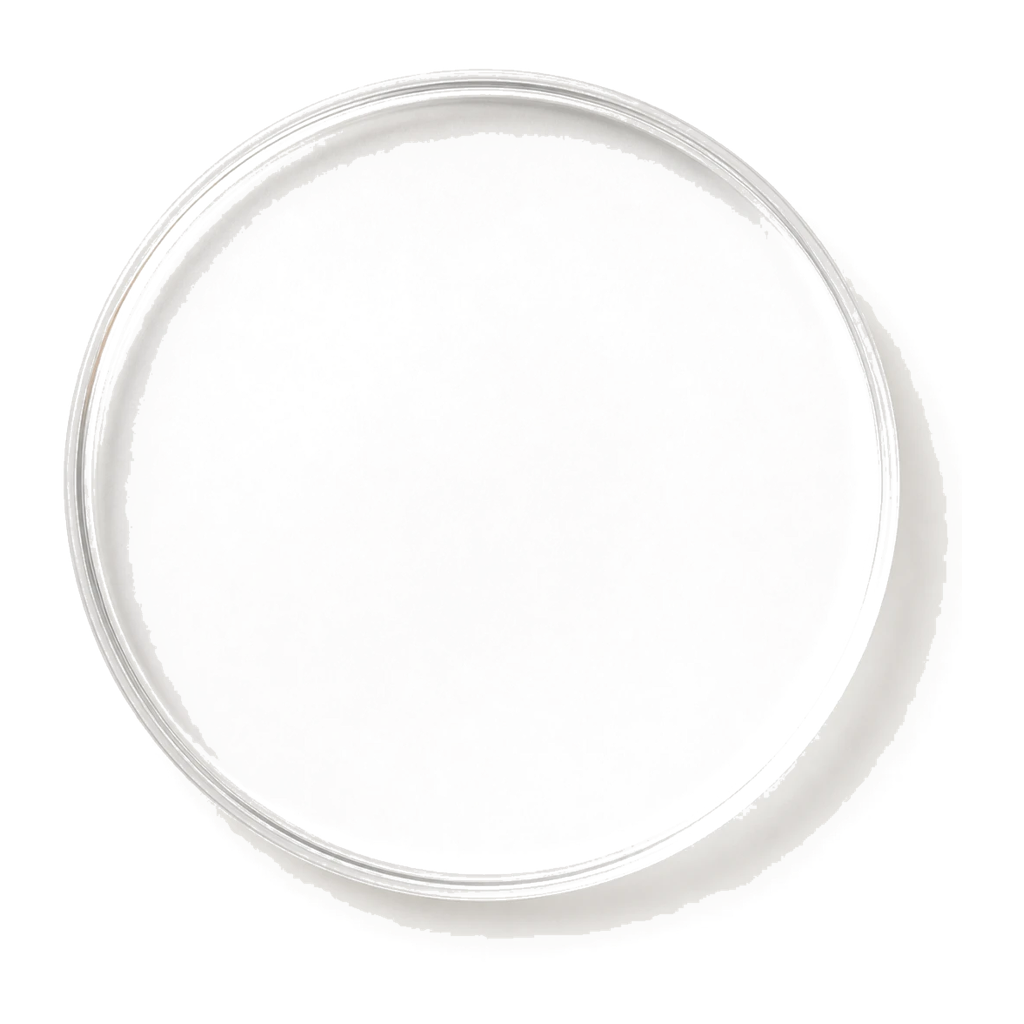
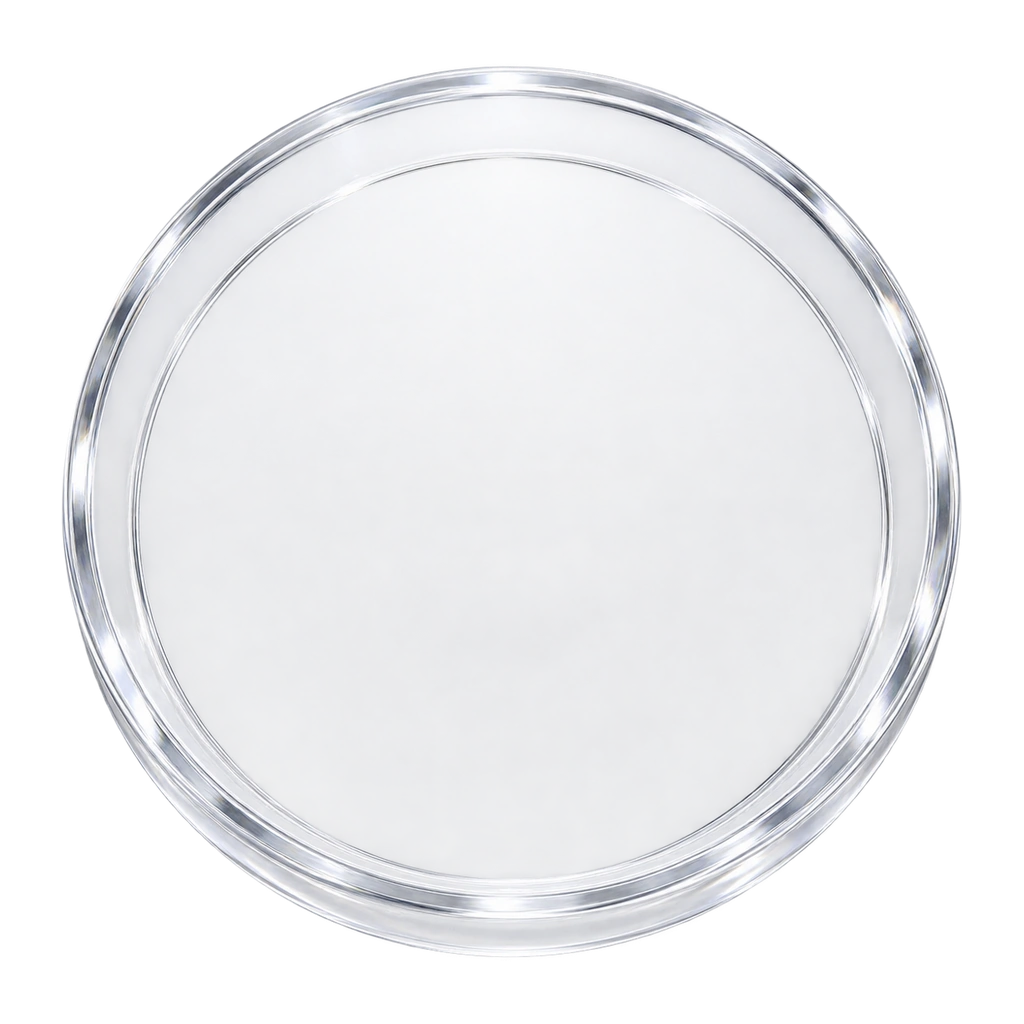
feat(assets): replace diy trays with clean native-alpha sources

Changed region(s): [[0.0625, 0.0625, 0.9375, 0.9375]]

diff --git a/scripts/ui-qa/tray_postprocess.py b/scripts/ui-qa/tray_postprocess.py
@@ -1,0 +1,111 @@
+"""Normalize native-alpha tray renders into deterministic runtime WebPs."""
+
+from __future__ import annotations
+
+import argparse
+import io
+import math
+from pathlib import Path
+
+from PIL import Image
+
+FRAME = 1024
+TARGET_DIAMETER = 901
+MAX_BYTES = 900 * 1024
+QUALITY_CANDIDATES = (95, 92, 90, 88, 85, 82, 80)
+
+
+def _neutralize_edge_fringe(image: Image.Image, center: tuple[float, float], radius: float, neutral: bool) -> None:
+    pixels = image.load()
+    cx, cy = center
+    inner = radius * 0.84
+    for y in range(image.height):
+        for x in range(image.width):
+            r, g, b, a = pixels[x, y]
+            if a == 0:
+                continue
+            distance = math.hypot(x - cx, y - cy)
+            if not neutral and distance < inner:
+                continue
+            green_bias = g - max(r, b)
+            magenta_bias = min(r, b) - g
+            red_bias = r - max(g, b)
+            blue_bias = b - max(r, g)
+            if neutral:
+                contaminated = max(r, g, b) - min(r, g, b) > 38
+            else:
+                contaminated = green_bias > 18 or magenta_bias > 42 or red_bias > 58 or blue_bias > 58
+            if contaminated:
+                luminance = round(0.2126 * r + 0.7152 * g + 0.0722 * b)
+                pixels[x, y] = (luminance, luminance, luminance, a)
+
+
+def _apply_radial_clip(image: Image.Image, center: tuple[float, float], radius: float) -> None:
+    pixels = image.load()
+    cx, cy = center
+    feather = 2.5
+    for y in range(image.height):
+        for x in range(image.width):
+            r, g, b, a = pixels[x, y]
+            distance = math.hypot(x - cx, y - cy)
+            if distance >= radius:
+                pixels[x, y] = (r, g, b, 0)
+            elif distance > radius - feather:
+                scale = (radius - distance) / feather
+                pixels[x, y] = (r, g, b, round(a * max(0.0, min(1.0, scale))))
+
+
+def _encode_webp(image: Image.Image) -> tuple[bytes, int]:
+    for quality in QUALITY_CANDIDATES:
+        output = io.BytesIO()
+        image.save(output, "WEBP", quality=quality, method=6, exact=True)
+        payload = output.getvalue()
+        if len(payload) <= MAX_BYTES:
+            return payload, quality
+    raise SystemExit(f"encoded tray exceeds {MAX_BYTES} bytes at quality {QUALITY_CANDIDATES[-1]}")
+
+
+def process(source: Path, target: Path, source_radius: float, neutral: bool = False) -> None:
+    if source.resolve() == target.resolve():
+        raise SystemExit("source and target must differ")
+    image = Image.open(source).convert("RGBA")
+    center = (image.width / 2.0, image.height / 2.0)
+    if source_radius <= 0 or source_radius > min(image.size) / 2:
+        raise SystemExit(f"invalid --source-radius {source_radius} for {image.size}")
+
+    _neutralize_edge_fringe(image, center, source_radius, neutral)
+    _apply_radial_clip(image, center, source_radius)
+
+    cx, cy = center
+    crop = image.crop(
+        (
+            round(cx - source_radius),
+            round(cy - source_radius),
+            round(cx + source_radius),
+            round(cy + source_radius),
+        )
+    )
+    crop = crop.resize((TARGET_DIAMETER, TARGET_DIAMETER), Image.Resampling.LANCZOS)
+    canvas = Image.new("RGBA", (FRAME, FRAME), (0, 0, 0, 0))
+    offset = (FRAME - TARGET_DIAMETER) // 2
+    canvas.paste(crop, (offset, offset))
+
+    payload, quality = _encode_webp(canvas)
+    target.parent.mkdir(parents=True, exist_ok=True)
+    target.write_bytes(payload)
+    print(f"wrote {target} bytes={len(payload)} quality={quality} source_radius={source_radius:g} neutral={neutral}")
+
+
+def main() -> int:
+    parser = argparse.ArgumentParser(description=__doc__)
+    parser.add_argument("source", type=Path)
+    parser.add_argument("target", type=Path)
+    parser.add_argument("--source-radius", type=float, required=True)
+    parser.add_argument("--neutral", action="store_true", help="neutralize chroma across a colorless acrylic subject")
+    args = parser.parse_args()
+    process(args.source, args.target, args.source_radius, args.neutral)
+    return 0
+
+
+if __name__ == "__main__":
+    raise SystemExit(main())

diff --git a/scripts/ui-qa/verify_diy_assets.py b/scripts/ui-qa/verify_diy_assets.py
@@ -3,6 +3,7 @@
 from __future__ import annotations
 
 import argparse
+import math
 import sys
 from dataclasses import dataclass
 from pathlib import Path
@@ -49,6 +50,8 @@ TRAY_CENTER_TOLERANCE = 16
 # Expected outer subject diameter ≈ 0.88 * 1024 = 901 (rimRadiusRatio 0.44)
 TRAY_LONGEST_MIN = 880
 TRAY_LONGEST_MAX = 910
+TRAY_REMAINDER_RADIUS_RATIO = 0.447
+TRAY_REMAINDER_MAX_COUNT = 64
 BEAD_SIZE = 512
 BEAD_CENTER_TOLERANCE = 4
 BEAD_LONGEST_MIN = 430
@@ -113,6 +116,20 @@ def _check_tray_artifacts(image: Image.Image) -> list[str]:
     outer_r = min(w, h) * ISLAND_RADIUS_RATIO
     ring_in = min(w, h) * EDGE_RING_INNER
     ring_out = min(w, h) * EDGE_RING_OUTER
+
+    # A valid 901px circular tray cannot have substantial alpha beyond this
+    # radius. This catches connected right/bottom background bands that evade
+    # isolated-island and alpha-bbox checks.
+    remainder_radius = min(w, h) * TRAY_REMAINDER_RADIUS_RATIO
+    remainder_hits = 0
+    for y in range(h):
+        for x in range(w):
+            if pix[x, y][3] >= 8 and math.hypot(x - cx, y - cy) > remainder_radius:
+                remainder_hits += 1
+    if remainder_hits > TRAY_REMAINDER_MAX_COUNT:
+        issues.append(
+            f"outside_disc_alpha={remainder_hits} expected <= {TRAY_REMAINDER_MAX_COUNT}"
+        )
 
     # Discrete alpha islands outside the main subject disc
     island_candidates = 0

diff --git a/docs/tasks/TASK_REGISTRY.md b/docs/tasks/TASK_REGISTRY.md
@@ -36,7 +36,7 @@ Codex independently accepted the closure evidence on 2026-09-10: GitHub PR metad
 | TASK-AUTH-009 | Mimo-X-Pro repair after GLM-5.3 implementation, under Codex lead/review | `task/auth-009-desktop-auto-auth-login-prompt` | DONE — Codex independently accepted TASK-AUTH-009 on 2026-09-12. Implementation commits: `a4c95d1`, `8ee562b`, `1a18deb`, `de4f5a1`, `97179b9`, `76c0420`, review repair `5e12f04`, and Mimo-X-Pro final repair `85a0b61`. The desktop identity remains exact-development, signed-test, loopback-only and server-only; Auth0 remains the consumer production session. The login/register dialog now restores focus for button/Escape/mask dismissal, dismisses without a business retry, and remounts after a later user-triggered 401. Standard frontend tests discover and pass 1005/1005; typecheck, lint, production build, external launcher syntax/plist/self-check, desktop session/API/logout/origin/token-leak checks, `git diff --check`, and 390x844 browser validation pass. Architecture remains 14/15 and `pnpm validate` 71/72 only because of the pre-existing missing Backend module-directory baseline outside this task; it is not reported as green. No push or deployment. | `apps/frontend/src/features/auth/**`, `apps/frontend/app/auth/**`, `apps/frontend/app/api/[...path]/route.ts`, `apps/frontend/proxy.ts`, `apps/frontend/src/components/flow-notice.tsx`, `apps/frontend/src/lib/api/frontend-api-error.ts`, `apps/frontend/src/features/tarot/components/tarot-setup.tsx`, `apps/frontend/src/features/tarot/tarot-setup.test.tsx`, `apps/frontend/src/features/design/frontend-ai-flow.test.tsx`, `apps/frontend/src/features/questionnaire/components/questionnaire-wizard.tsx`, `apps/frontend/src/features/gallery/components/gallery-page.tsx`, `apps/frontend/src/features/profile/components/profile-page.tsx`, `apps/frontend/src/features/library/components/crystal-library-page.tsx`, `apps/frontend/src/features/library/components/crystal-library-page.test.tsx`, `apps/frontend/src/features/design/components/design-results.tsx`, `apps/frontend/src/features/design/components/diy-editor.tsx`, delete `apps/frontend/src/components/flow-notice.test.tsx` (migrated into auth feature tests), `docs/AUTH_SESSION_CONTRACT.md`, `docs/SECURITY_AND_PRIVACY.md`, `docs/LOCAL_DEMO_GUIDE.md`, `docs/INDEX.md`, exact FEAT-018 row in `docs/governance/FEATURE_REGISTRY.md`, `docs/superpowers/specs/2026-09-12-auth-login-prompt-desktop-auto-auth.md`, `docs/superpowers/plans/2026-09-12-auth-login-prompt-desktop-auto-auth.md`, only this TASK-AUTH-009 row/acceptance note; external local-operation files `/Users/chenyanyan/Desktop/玄矶系统.command` and `/Users/chenyanyan/Library/LaunchAgents/com.mystcrag.frontend.plist` | `apps/backend/**`, `packages/**`, Prisma/database/data/migrations, Design Contract, independent bead-import admin authentication, other product UI/business behavior, package manifests/lockfile, CI configuration, other task rows, source assets, generated output, push/deploy/main merge before Codex acceptance |
 | TASK-UX-001 | SOL | `task/ux-001-diy-loose-bead-spec` | DONE — Product Owner approved the written specification on 2026-09-12. It records the loose-tray direction, dual-source flight/collision behavior, canonical connected mode, read-only one-decimal component-derived fit, tray/bead asset correction, performance budgets, compatibility/fallback matrix and separately owned delivery tasks. No runtime, asset, contract or engine file changed. All six controlling document paths and the final diff check pass; architecture is 14/15 and `pnpm validate` is 71/72 only because current `main` already lacks `apps/backend/src/modules/community`, outside this task. | new `docs/superpowers/specs/2026-09-12-diy-loose-bead-physics-visual-redesign.md`; only this TASK-UX-001 row and acceptance note in `docs/tasks/TASK_REGISTRY.md` | `apps/**`, `packages/**`, `tests/**`, `apps/frontend/public/**`, Prisma/database/data/migrations, Design Contract, Bracelet Engine implementation/geometry, package manifests/lockfile, root/runtime/CI configuration, Auth, other task rows, generated images/output, source photographs, push/deploy/main merge |
 | TASK-UX-PLAN-001 | SOL | `task/ux-plan-001-diy-loose-bead-implementation` | REVIEW — three no-runtime implementation plans (928 lines) split the approved design into `TASK-ASSET-003`, `TASK-FE-003` and `TASK-UX-AUDIT-001` followed by evidence-defined route-family polish batches. Plans provide exact ownership, files, public interfaces, TDD red/green steps, performance budgets, 48-body deterministic fallback, reduced-motion/API degradation, Chromium/Firefox/WebKit coverage, commits and handoff gates. Placeholder scan, referenced existing paths and final diff check pass. Architecture is 14/15 and `pnpm validate` is 71/72 only because current `main` already lacks `apps/backend/src/modules/community`; no runtime, asset, contract or engine file changed. | new `docs/superpowers/plans/2026-09-12-bead-tray-asset-realism.md`, new `docs/superpowers/plans/2026-09-12-diy-loose-bead-workbench.md`, new `docs/superpowers/plans/2026-09-12-route-visual-audit-and-polish.md`; only this TASK-UX-PLAN-001 row and acceptance note in `docs/tasks/TASK_REGISTRY.md` | `apps/**`, `packages/**`, `tests/**`, `apps/frontend/public/**`, Prisma/database/data/migrations, Design Contract, Bracelet Engine implementation/geometry, package manifests/lockfile, root/runtime/CI configuration, Auth, other task rows, generated images/output, source photographs, push/deploy/main merge |
-| TASK-ASSET-003 | ASSET / Codex under Product Owner authorization on 2026-09-13 | `task/asset-003-bead-tray-realism` | IN_PROGRESS — Product Owner authorized Codex to take over the four tray assets after visual review rejected both MiMo candidates `11593b4` and `d373d9c`. The second candidate still has large right/bottom rectangular background bands; acrylic remains blocky with red residue and false transparency, while the verifier incorrectly reports green. Codex will replace only the four tray WebPs with native-alpha sources generated through the approved built-in imagegen workflow, correct provenance, and strengthen the gate against connected rectangular remnants. Accepted bead normalization and TypeScript metadata remain frozen. No push/deploy/merge. | `apps/frontend/public/trays/ASSET_PROVENANCE.md`, `apps/frontend/public/trays/{bone-china,clear-acrylic,french-linen,oak-wood}.webp`, only verifier-failing `apps/frontend/public/beads/photographic/*.webp`, `scripts/ui-qa/bead_postprocess.py`, new `scripts/ui-qa/verify_diy_assets.py`, `apps/frontend/src/features/design/model/visual-assets.ts`, `apps/frontend/src/features/design/model/visual-assets.test.tsx`, only this TASK-ASSET-003 row/acceptance note | application components, Backend, Database/Prisma/data/migrations, Auth, Design Contract, Bracelet Engine, packages other than the named frontend model files, manifests/lockfile, CI/runtime configuration, source photographs, generated QA output, other task rows, push/deploy/main merge |
+| TASK-ASSET-003 | ASSET / Codex under Product Owner authorization on 2026-09-13 | `task/asset-003-bead-tray-realism` | IN_PROGRESS — Product Owner authorized Codex to take over the four tray assets after visual review rejected both MiMo candidates `11593b4` and `d373d9c`. The second candidate still has large right/bottom rectangular background bands; acrylic remains blocky with red residue and false transparency, while the verifier incorrectly reports green. Codex will replace only the four tray WebPs with native-alpha sources generated through the approved built-in imagegen workflow, add a deterministic tray postprocessor, correct provenance, and strengthen the gate against connected rectangular remnants. Accepted bead normalization and TypeScript metadata remain frozen. No push/deploy/merge. | `apps/frontend/public/trays/ASSET_PROVENANCE.md`, `apps/frontend/public/trays/{bone-china,clear-acrylic,french-linen,oak-wood}.webp`, only verifier-failing `apps/frontend/public/beads/photographic/*.webp`, `scripts/ui-qa/bead_postprocess.py`, new `scripts/ui-qa/tray_postprocess.py`, new `scripts/ui-qa/verify_diy_assets.py`, `apps/frontend/src/features/design/model/visual-assets.ts`, `apps/frontend/src/features/design/model/visual-assets.test.tsx`, only this TASK-ASSET-003 row/acceptance note | application components, Backend, Database/Prisma/data/migrations, Auth, Design Contract, Bracelet Engine, packages other than the named frontend model files, manifests/lockfile, CI/runtime configuration, source photographs, generated QA output, other task rows, push/deploy/main merge |
 
 ### Backend production bundle self-sufficiency (TASK-BE-SMOKE-001)
 

diff --git a/apps/frontend/public/trays/ASSET_PROVENANCE.md b/apps/frontend/public/trays/ASSET_PROVENANCE.md
@@ -1,79 +1,63 @@
 # DIY Tray Asset Provenance
 
-Owner: TASK-ASSET-003 (ASSET / Xiaomi MiMo under Codex lead and review)
-Date: 2026-09-13 (review remediation)
-License: Runtime assets derived only from repository baseline tray files already tracked at plan commit `a306042`. No competitor media. No third-party stock. No generative-image source.
+Owner: TASK-ASSET-003 (ASSET / Codex, authorized by the Product Owner)
+Date: 2026-09-13
+License: Generated for this repository from text prompts with the built-in OpenAI image generator. No competitor image, stock image, user image, or other third-party visual was used as an input.
 
-## Authoritative input
+## Source generation
 
-The four source files are the pre-existing repository runtime trays at plan base `a306042`:
+All four sources were generated independently at 1254×1254 RGBA. Shared prompt constraints required a single centered, top-down circular bracelet-making tray; no beads, jewelry, text, logo, watermark, hands, props, or background scene; even soft lighting; realistic material; generous inner working area; and a fully visible outer rim.
 
-| Source (git `a306042`) | Original size | Mode |
-| --- | --- | --- |
-| `apps/frontend/public/trays/bone-china.webp` | 1100×1100 | RGB |
-| `apps/frontend/public/trays/clear-acrylic.webp` | 1100×1100 | RGB |
-| `apps/frontend/public/trays/french-linen.webp` | 1100×1100 | RGB |
-| `apps/frontend/public/trays/oak-wood.webp` | 1100×1100 | RGB |
+Material additions were:
 
-Extract command:
+- `bone-china.webp`: warm ivory bone china, restrained glossy glaze and a thin rounded rim.
+- `clear-acrylic.webp`: genuinely transparent clear acrylic, continuous translucent floor, subtle molded rim and restrained refraction.
+- `french-linen.webp`: warm natural French linen over a padded circular base, fine woven texture and softly raised rim.
+- `oak-wood.webp`: pale natural oak, fine radial grain, shallow carved recess and smooth rounded rim.
+
+| Runtime file | Generated source ID | Source SHA-256 | Circular source radius |
+| --- | --- | --- | --- |
[4 lines of base64/hex data omitted]
+
+The generated source files are retained by the built-in generator under `/Users/chenyanyan/.codex/generated_images/01a03351-e223-7433-a2ed-b681a541a365/` for local audit. Runtime reproduction does not depend on those files being shipped with the application.
+
+## Deterministic post-processing
+
+`scripts/ui-qa/tray_postprocess.py` applies these deterministic runtime transformations:
+
+1. Clip the source to a feathered circular alpha mask, removing every pixel outside the tray silhouette.
+2. Neutralize low-alpha edge chroma to prevent green, magenta, or red fringe. Acrylic also receives full-subject neutralization so transparent pixels cannot retain colored contamination.
+3. Crop to non-zero alpha, scale proportionally to a 901-pixel maximum diameter, and center on a 1024×1024 transparent canvas.
+4. Encode the highest WebP quality from the documented quality ladder that remains below 900 KiB.
+
+Exact commands:
 
 ```bash
-git show a306042:apps/frontend/public/trays/<name>.webp > /tmp/a306042-<name>.webp
+python3 scripts/ui-qa/tray_postprocess.py <bone-source> apps/frontend/public/trays/bone-china.webp --source-radius 558
+python3 scripts/ui-qa/tray_postprocess.py <acrylic-source> apps/frontend/public/trays/clear-acrylic.webp --source-radius 562 --neutral
+python3 scripts/ui-qa/tray_postprocess.py <linen-source> apps/frontend/public/trays/french-linen.webp --source-radius 570
+python3 scripts/ui-qa/tray_postprocess.py <oak-source> apps/frontend/public/trays/oak-wood.webp --source-radius 558
 ```
 
-## Shared runtime frame
+## Runtime output evidence
 
-- Canvas: 1024×1024 RGBA WebP
-- `rimRadiusRatio = 0.44`, `innerRadiusRatio = 0.37`
-- Outer alpha longest side normalized to `round(1024 * 0.88) = 901`
-- Four corner alpha values `<= 8`
-- Each file ≤ 900 KiB
-
-## Deterministic transformation (all four materials)
-
-1. Estimate studio background as the mean RGB of an 8-pixel border band.
-2. Convert every pixel to alpha with a linear distance ramp to that background:
-   - `alpha = 0` when `dist <= t0`
-   - `alpha = 255` when `dist >= t1`
-   - otherwise `alpha = round(255 * (dist - t0) / (t1 - t0))`
-3. Acrylic only: keep light RGB and multiply alpha by `0.20` when `luma >= 225` and `dist < t1 + 10`, so the usable floor stays true-transparent instead of an opaque gray disc.
-4. Gaussian blur the alpha channel only (`radius=0.55`) for a light anti-aliased edge. No texture smearing.
-5. Crop to `alpha >= 8` bounding box; scale longest side to 901 (proportional); center on a transparent 1024×1024 canvas using unmasked RGBA paste (preserves semi-transparent RGB).
-6. Force the outer 2-pixel border fully transparent.
-7. Save WebP. Prefer `lossless=True, method=6`; fall back to `quality=95,90,85` only if the file exceeds 900 KiB.
-
-### Per-file thresholds
-
-| File | t0 | t1 | Acrylic floor rule |
-| --- | --- | --- | --- |
-| `bone-china.webp` | 10 | 22 | no |
-| `clear-acrylic.webp` | 7 | 18 | yes |
-| `french-linen.webp` | 12 | 28 | no |
-| `oak-wood.webp` | 12 | 28 | no |
-
-Reproduction sketch (Pillow 10.x):
-
-```python
-# border mean bg -> linear alpha ramp -> optional acrylic floor scale
-# -> GaussianBlur(A, 0.55) -> crop/scale/center 901 on 1024 RGBA
-# -> save WEBP lossless method=6 (or quality=95 under 900KiB)
-```
-
-## Output evidence
-
-| File | SHA-256 | Bytes | Longest | Corner alpha |
+| File | SHA-256 | Bytes | Alpha longest side | Corner alpha |
 | --- | --- | --- | --- | --- |
[8 lines of base64/hex data omitted]
 
-Acrylic center pixel is light RGB with low alpha (`≈ (241,234,234,37)`), confirming true transparency rather than a gray-black disc.
+Each output was visually inspected at original detail over white, warm-neutral, dark, and checkerboard backgrounds. The trays have a clean native-alpha circular boundary without rectangular bands, colored fringe, black specks, baked backgrounds, beads, text, or watermarks. The acrylic retains a continuous translucent working floor and reads as a tray rather than a hollow ring.
 
 ## Verification
 
 ```bash
 python3 scripts/ui-qa/verify_diy_assets.py --trays-only
+python3 scripts/ui-qa/verify_diy_assets.py
 ```
 
-Expected: PASS for exactly four files, including enhanced gates for alpha islands outside the subject, edge green/magenta fringe, black specks, and hard binary alpha blocks.
+The tray gate checks dimensions, file size, normalized alpha bounds, transparent corners, disconnected alpha islands, edge color fringe, black specks, hard binary alpha blocks, and residual alpha outside the expected circular subject.
